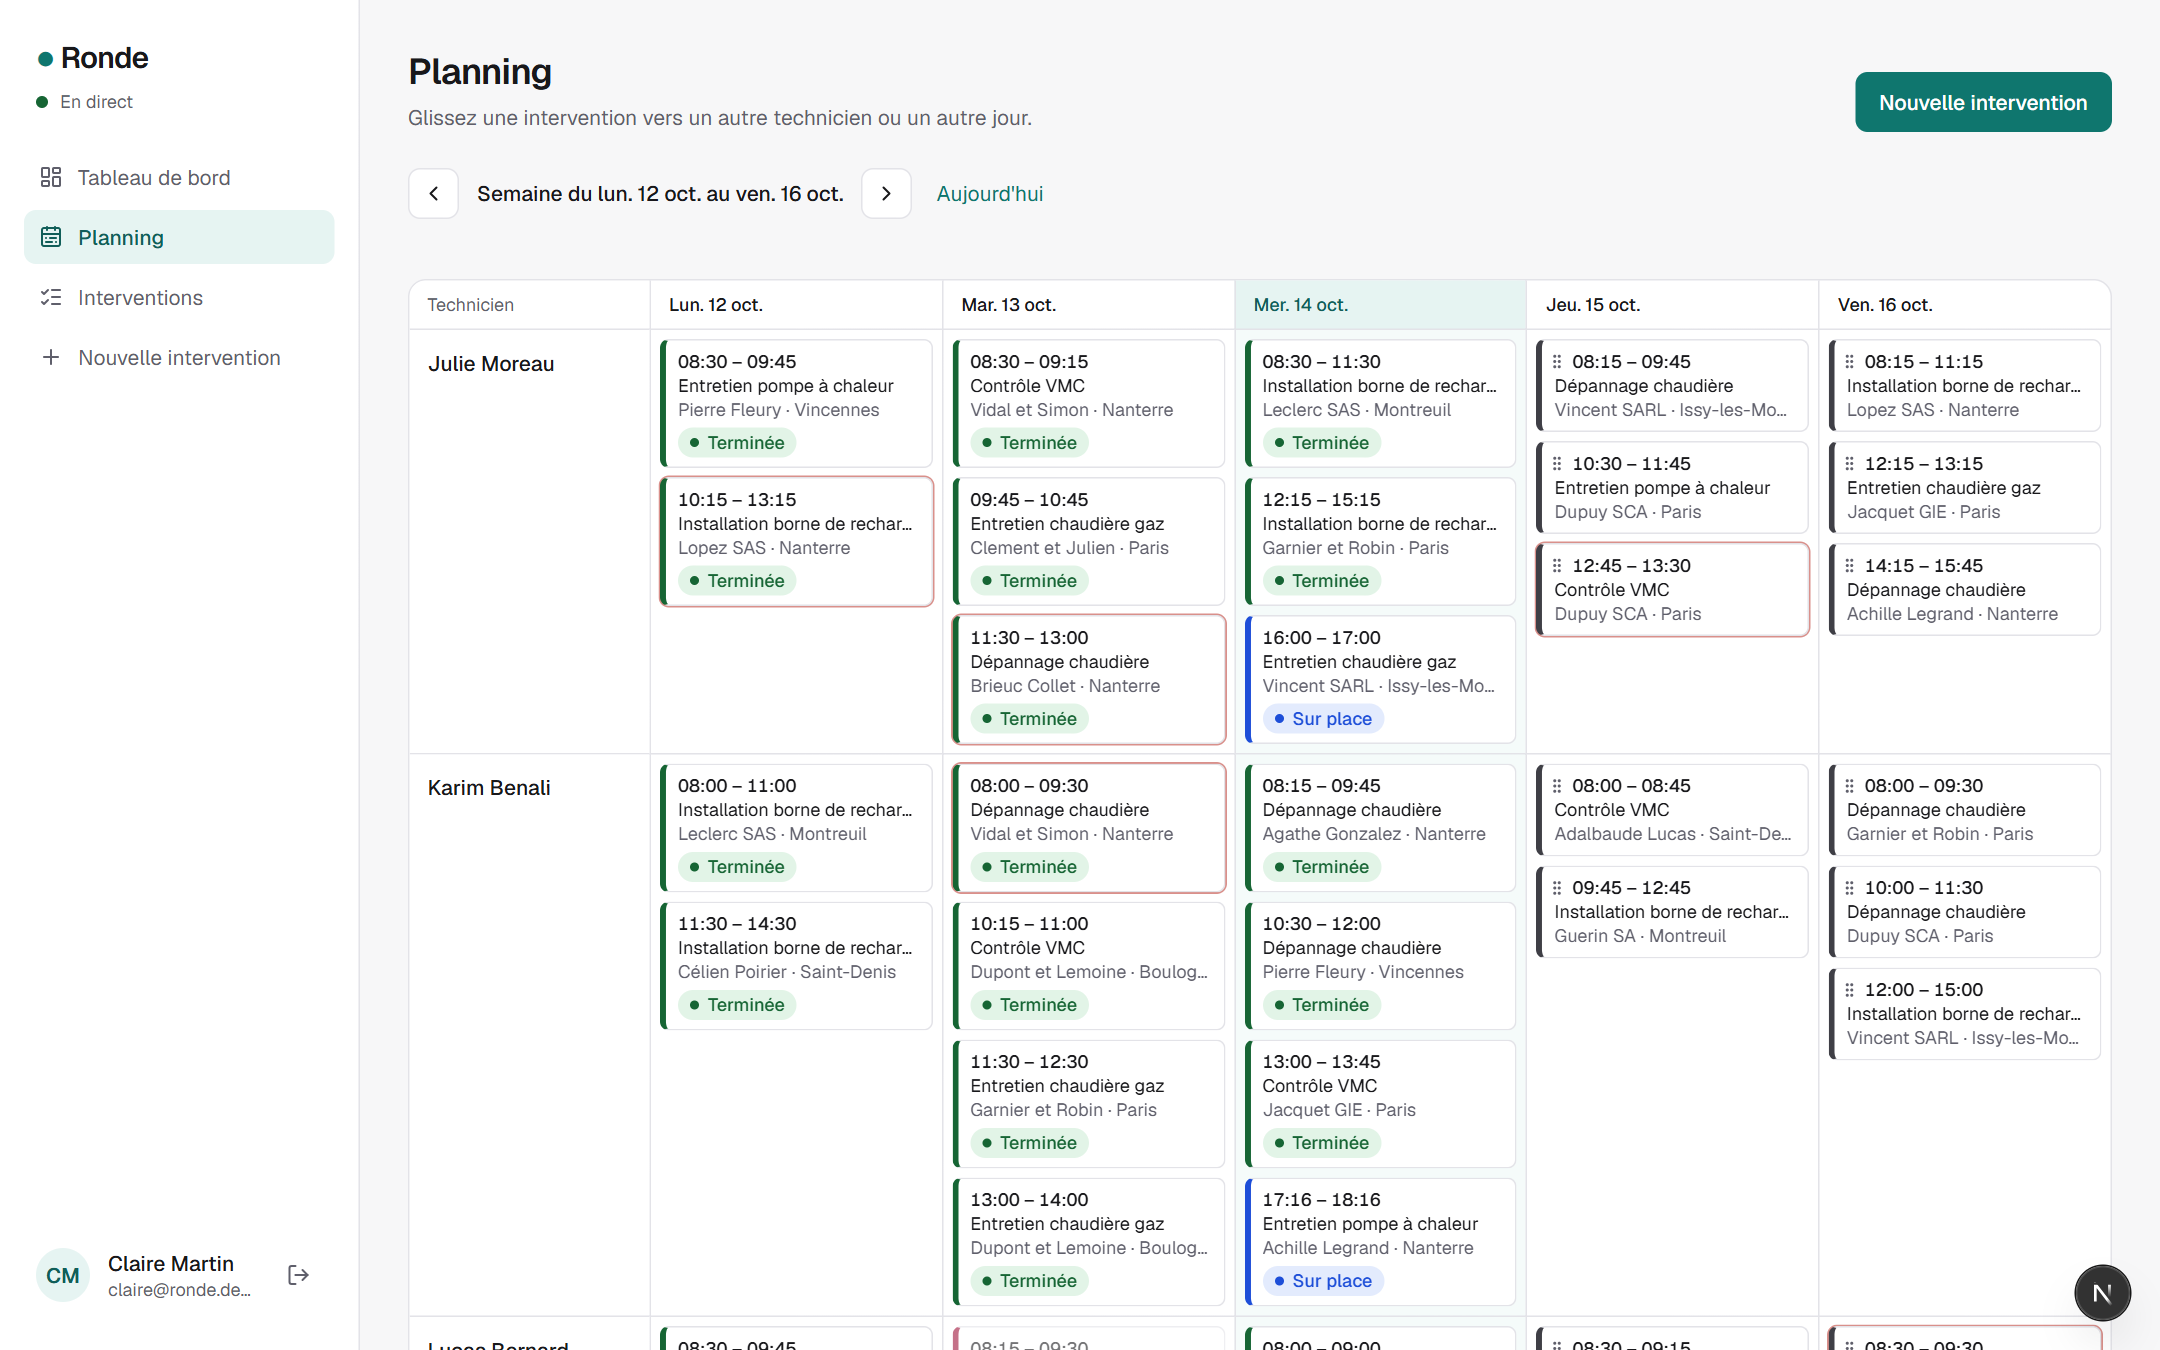
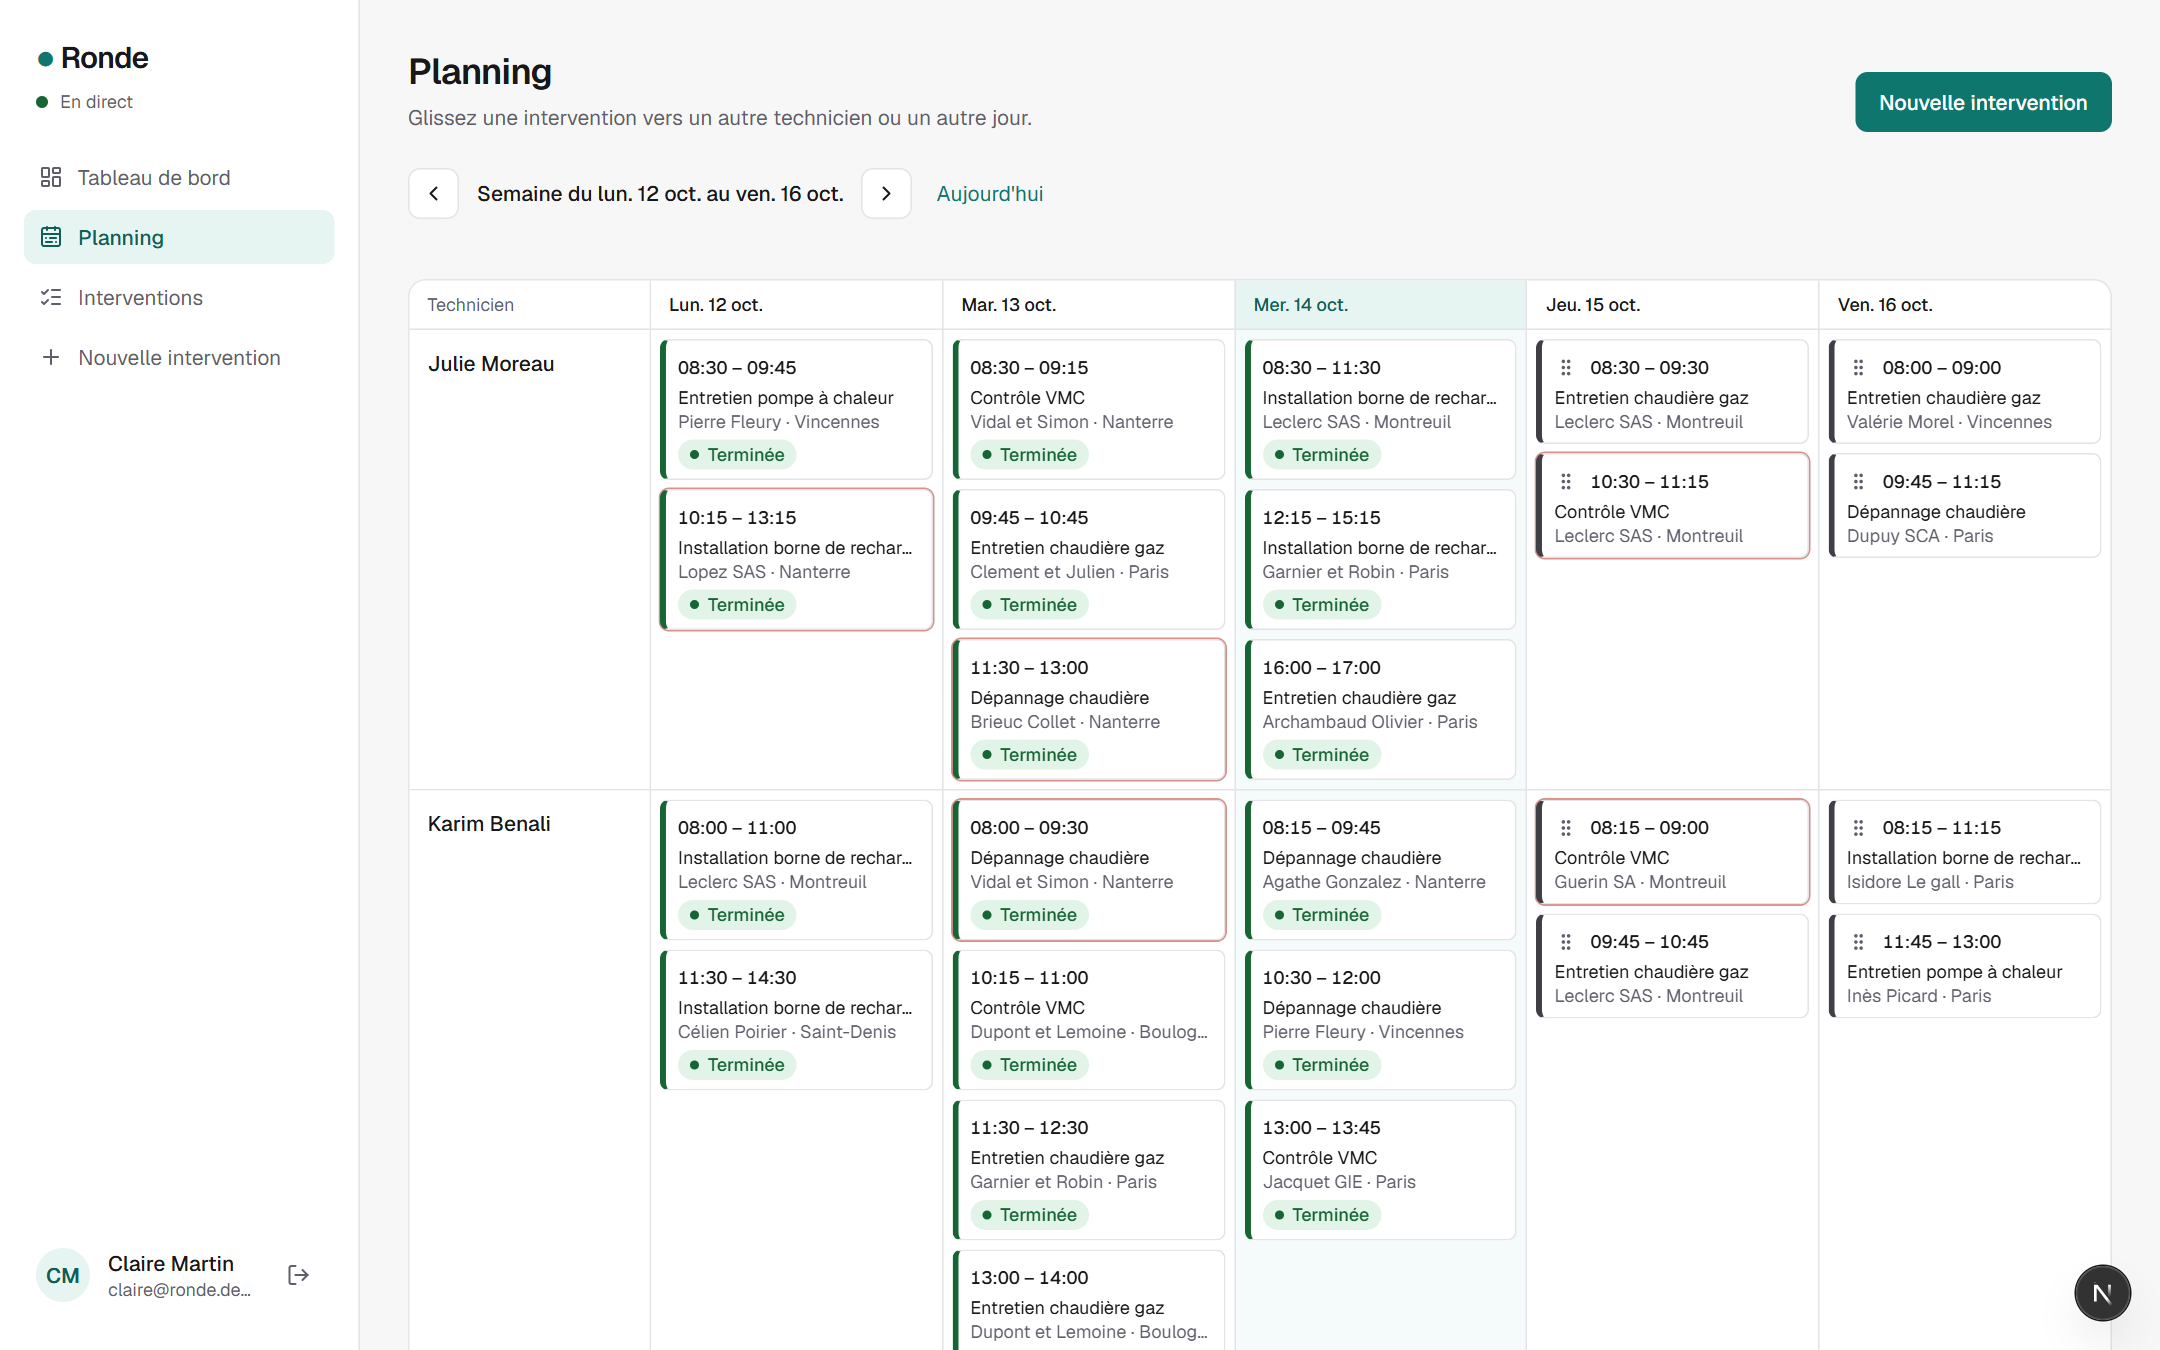
feat(web): carte du jour (MapLibre + OpenFreeMap), accessible au clavier
- Marqueurs-boutons libellés, infobulles sans HTML brut, légende
- Écartement automatique des marqueurs proches (cibles de 24 px, WCAG 2.5.8)
- Worker MapLibre servi depuis public/ (copié au build)

diff --git a/apps/web/src/components/interventions-map.tsx b/apps/web/src/components/interventions-map.tsx
@@ -1,0 +1,165 @@
+"use client";
+
+import { STATUS_LABELS, type InterventionStatus } from "@ronde/domain";
+import "maplibre-gl/dist/maplibre-gl.css";
+import { useEffect, useRef, useState } from "react";
+import { formatTimeRange } from "@/lib/format";
+import type { InterventionRow } from "@/lib/queries";
+
+// Tuiles vectorielles OpenFreeMap (données OpenStreetMap) : libres, sans clé d'API
+const STYLES = {
+  light: "https://tiles.openfreemap.org/styles/positron",
+  dark: "https://tiles.openfreemap.org/styles/dark",
+};
+
+const STATUS_VAR: Record<InterventionStatus, string> = {
+  PLANNED: "--status-planned",
+  EN_ROUTE: "--status-en-route",
+  ON_SITE: "--status-on-site",
+  DONE: "--status-done",
+  CANCELLED: "--status-cancelled",
+};
+
+function describe(i: InterventionRow) {
+  return `${formatTimeRange(i.scheduledStart, i.scheduledEnd)}, ${i.type}, ${i.site.customer.name}, ${
+    i.technician?.name ?? "non assignée"
+  }, ${STATUS_LABELS[i.status]}`;
+}
+
+/** Contenu de l'infobulle, construit sans HTML brut (les données viennent des utilisateurs). */
+function popupContent(i: InterventionRow) {
+  const root = document.createElement("div");
+  root.className = "text-sm";
+  const title = document.createElement("a");
+  title.href = `/interventions/${i.id}`;
+  title.textContent = i.type;
+  title.className = "font-semibold text-brand hover:underline";
+  const lines = [
+    formatTimeRange(i.scheduledStart, i.scheduledEnd),
+    `${i.site.customer.name} · ${i.site.city}`,
+    `${i.technician?.name ?? "Non assignée"} · ${STATUS_LABELS[i.status]}`,
+  ].map((text) => {
+    const p = document.createElement("p");
+    p.textContent = text;
+    return p;
+  });
+  root.append(title, ...lines);
+  return root;
+}
+
+export function InterventionsMap({ interventions }: { interventions: InterventionRow[] }) {
+  const container = useRef<HTMLDivElement>(null);
+  const [unavailable, setUnavailable] = useState(false);
+
+  useEffect(() => {
+    const element = container.current;
+    if (!element) return;
+    let disposed = false;
+    let cleanup = () => {};
+
+    void (async () => {
+      const maplibre = await import("maplibre-gl");
+      if (disposed) return;
+      maplibre.setWorkerUrl("/maplibre/maplibre-gl-worker.mjs"); // copié par scripts/copy-maplibre-worker.mjs
+      const dark = window.matchMedia("(prefers-color-scheme: dark)").matches;
+      let map: import("maplibre-gl").Map;
+      try {
+        map = new maplibre.Map({
+          container: element,
+          style: dark ? STYLES.dark : STYLES.light,
+          center: [2.35, 48.86],
+          zoom: 10,
+          attributionControl: { compact: true },
+          cooperativeGestures: true, // la page reste défilable : zoom à la molette avec Ctrl
+        });
+      } catch {
+        setUnavailable(true); // pas de WebGL
+        return;
+      }
+      map.addControl(new maplibre.NavigationControl({ showCompass: false }), "top-right");
+
+      const styles = getComputedStyle(document.documentElement);
+      const bounds = new maplibre.LngLatBounds();
+      const markers = interventions.map((i) => {
+        const button = document.createElement("button");
+        button.type = "button";
+        button.setAttribute("aria-label", describe(i));
+        button.title = describe(i);
+        button.className = "size-6 rounded-full border-[3px] border-white shadow-md focus-visible:outline-2"; // 24 px : cible tactile minimale
+        button.style.background = styles.getPropertyValue(STATUS_VAR[i.status]);
+        const lngLat: [number, number] = [i.site.longitude, i.site.latitude];
+        bounds.extend(lngLat);
+        return new maplibre.Marker({ element: button })
+          .setLngLat(lngLat)
+          .setPopup(new maplibre.Popup({ offset: 12, closeButton: true }).setDOMContent(popupContent(i)))
+          .addTo(map);
+      });
+      if (!bounds.isEmpty()) map.fitBounds(bounds, { padding: 48, maxZoom: 13, duration: 0 });
+
+      // Interventions proches à l'écran (même immeuble, même quartier) : les marqueurs se
+      // chevaucheraient. À chaque zoom, on les écarte jusqu'à MIN_GAP px les uns des autres
+      // (relaxation itérative) : chacun reste une cible distincte d'au moins 24 px (WCAG 2.5.8).
+      const MIN_GAP = 28;
+      const spread = () => {
+        const anchors = markers.map((m) => map.project(m.getLngLat()));
+        const positions = anchors.map((p, i) => ({ x: p.x + ((i * 7) % 3) * 0.01, y: p.y })); // départage les points confondus
+        for (let iteration = 0; iteration < 60; iteration++) {
+          let moved = false;
+          for (let a = 0; a < positions.length; a++) {
+            for (let b = a + 1; b < positions.length; b++) {
+              const pa = positions[a]!;
+              const pb = positions[b]!;
+              const dx = pb.x - pa.x;
+              const dy = pb.y - pa.y;
+              const distance = Math.hypot(dx, dy) || 0.01;
+              if (distance >= MIN_GAP) continue;
+              const push = (MIN_GAP - distance) / 2 + 0.5;
+              pa.x -= (dx / distance) * push;
+              pa.y -= (dy / distance) * push;
+              pb.x += (dx / distance) * push;
+              pb.y += (dy / distance) * push;
+              moved = true;
+            }
+          }
+          if (!moved) break;
+        }
+        markers.forEach((m, i) => m.setOffset([positions[i]!.x - anchors[i]!.x, positions[i]!.y - anchors[i]!.y]));
+      };
+      spread();
+      map.on("zoomend", spread);
+
+      cleanup = () => {
+        markers.forEach((m) => m.remove());
+        map.remove();
+      };
+    })();
+
+    return () => {
+      disposed = true;
+      cleanup();
+    };
+  }, [interventions]);
+
+  if (unavailable) {
+    return <p className="text-sm text-muted">La carte n&apos;est pas disponible sur ce navigateur.</p>;
+  }
+
+  return (
+    <div>
+      <div
+        ref={container}
+        role="region"
+        aria-label="Carte des interventions du jour"
+        className="h-80 overflow-hidden rounded-lg border border-border md:h-96"
+      />
+      <ul className="mt-3 flex flex-wrap gap-x-4 gap-y-1 text-xs text-muted" aria-label="Légende">
+        {(Object.keys(STATUS_VAR) as InterventionStatus[]).map((status) => (
+          <li key={status} className="flex items-center gap-1.5">
+            <span aria-hidden className="size-2.5 rounded-full" style={{ background: `var(${STATUS_VAR[status]})` }} />
+            {STATUS_LABELS[status]}
+          </li>
+        ))}
+      </ul>
+    </div>
+  );
+}

diff --git a/apps/web/e2e/interventions.spec.ts b/apps/web/e2e/interventions.spec.ts
@@ -11,6 +11,20 @@ test("le tableau de bord affiche l'activité du jour et les indicateurs", async 
   await expect(page.getByText("En direct")).toBeVisible(); // abonnement temps réel actif
 });
 
+test("la carte du jour place les interventions et s'utilise au clavier", async ({ page }) => {
+  const map = page.getByRole("region", { name: "Carte des interventions du jour" });
+  await expect(map).toBeVisible();
+  const markers = map.getByRole("button", { name: /^\d{2}:\d{2} – \d{2}:\d{2}, / });
+  await expect(markers.first()).toBeVisible({ timeout: 15_000 });
+  expect(await markers.count()).toBeGreaterThan(5);
+
+  await markers.first().focus();
+  await page.keyboard.press("Enter");
+  const popup = page.locator(".maplibregl-popup");
+  await expect(popup).toBeVisible();
+  await expect(popup.getByRole("link")).toHaveAttribute("href", /^\/interventions\/c[a-z0-9]+$/);
+});
+
 test("créer une intervention puis l'annuler", async ({ page }) => {
   await page.getByRole("link", { name: "Nouvelle intervention" }).first().click();
   await expect(page.getByRole("heading", { name: "Nouvelle intervention" })).toBeVisible();

diff --git a/apps/web/src/app/(app)/page.tsx b/apps/web/src/app/(app)/page.tsx
@@ -3,6 +3,7 @@ import { ArrowRight } from "lucide-react";
 import Link from "next/link";
 import { Suspense } from "react";
 import { connection } from "next/server";
+import { InterventionsMap } from "@/components/interventions-map";
 import { Card, EmptyState, PageHeader, PriorityBadge, Skeleton, StatusBadge } from "@/components/ui";
 import { gql } from "@/lib/api";
 import { formatLongDay, formatMinutes, formatPercent, formatTimeRange } from "@/lib/format";
@@ -151,6 +152,13 @@ async function Dashboard() {
           </Card>
         </div>
       </div>
+
+      <Card aria-labelledby="map-title" className="mt-6">
+        <h2 id="map-title" className="mb-3 font-semibold">
+          Carte du jour
+        </h2>
+        <InterventionsMap interventions={interventions} />
+      </Card>
     </>
   );
 }

diff --git a/apps/web/e2e/screenshots.spec.ts b/apps/web/e2e/screenshots.spec.ts
@@ -10,7 +10,9 @@ const out = (name: string) => `../../docs/screenshots/${name}.png`;
 test("captures du back-office", async ({ page }) => {
   await login(page);
   await expect(page.getByText("Résolution à la 1re visite")).toBeVisible();
-  await page.screenshot({ path: out("web-tableau-de-bord") });
+  await expect(page.locator(".maplibregl-marker").first()).toBeVisible({ timeout: 15_000 });
+  await page.waitForTimeout(2500); // tuiles de la carte
+  await page.screenshot({ path: out("web-tableau-de-bord"), fullPage: true });
 
   await page.goto("/planning");
   await expect(page.getByRole("table", { name: "Planning de la semaine" })).toBeVisible();

diff --git a/apps/web/src/proxy.ts b/apps/web/src/proxy.ts
@@ -13,5 +13,5 @@ export function proxy(request: NextRequest) {
 }
 
 export const config = {
-  matcher: ["/((?!login|api|_next/static|_next/image|favicon.ico|.*\\.(?:svg|png|jpg|ico)$).*)"],
+  matcher: ["/((?!login|api|maplibre|_next/static|_next/image|favicon.ico|.*\\.(?:svg|png|jpg|ico)$).*)"],
 };

diff --git a/apps/web/src/lib/queries.ts b/apps/web/src/lib/queries.ts
@@ -17,6 +17,8 @@ export const InterventionRowFragment = graphql(`
       id
       label
       city
+      latitude
+      longitude
       customer {
         id
         name
